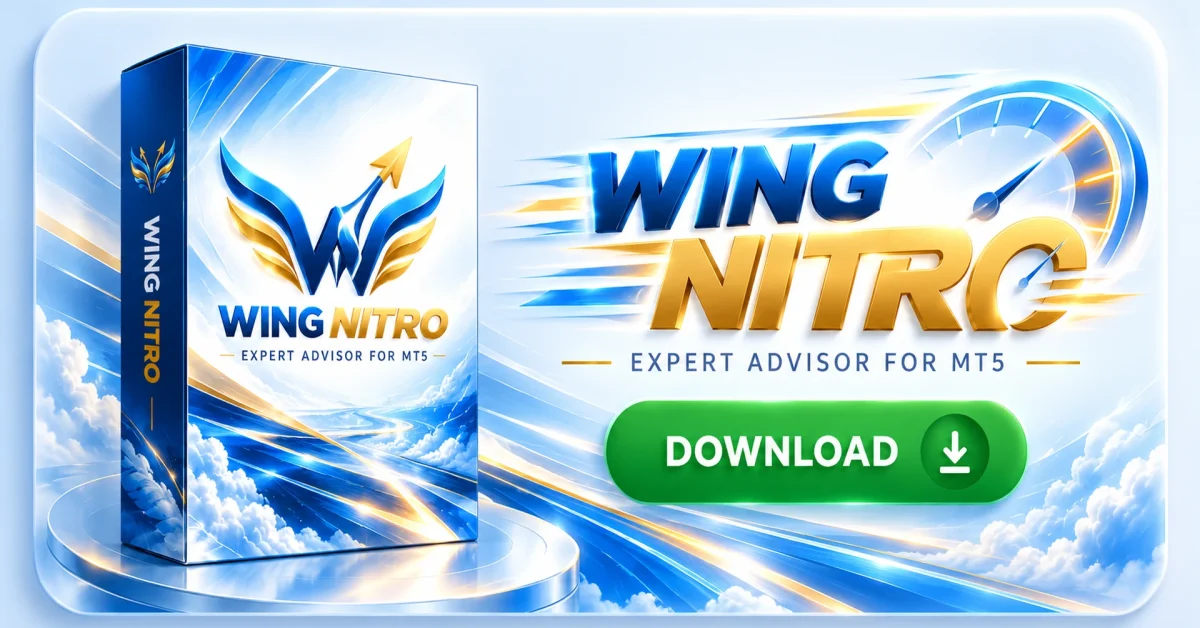
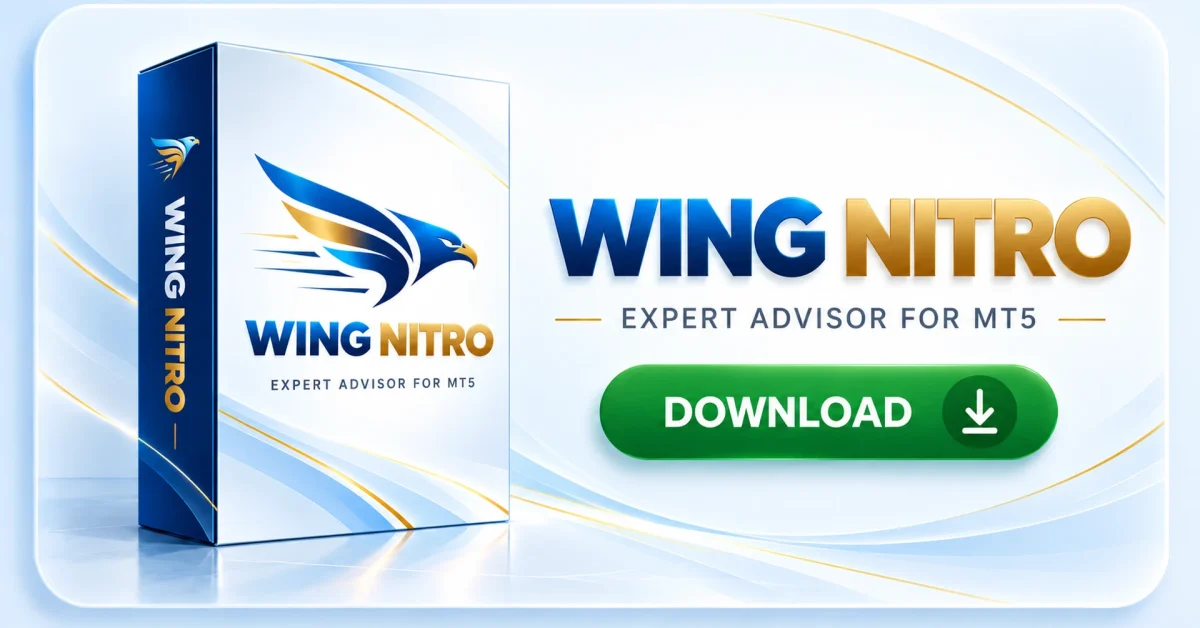
Theme 1.0.63: new product covers, menu highlight fix
- New covers from the owner for EA WING, WING NITRO and WING TWIN:
  2:1 cards for home and /go, 16:9 product page headers, page covers;
  old v1 / v42 card files removed
- Menu links with a # (EA WING 5.0 -> /#modes) are never the current
  page, so the home page no longer highlights "สินค้า" next to "หน้าแรก"

diff --git a/eawing/style.css b/eawing/style.css
@@ -4,7 +4,7 @@ Theme URI: https://eawing.co/
 Author: EA WING Team
 Author URI: https://eawing.co/
 Description: ธีมเว็บไซต์ EA WING ผู้ช่วยเทรดอัตโนมัติสำหรับ MetaTrader 5 · ดีไซน์ Glass Sky (ฟ้า กระจกฝ้า น้ำเงินกับทอง) · มีหน้าคู่มือ ทดสอบ แพ็กเกจ เอกสาร บทความ เครื่องคำนวณ Lot/Drawdown และหน้า EA WING Setup สำหรับตั้งค่าเว็บ · แก้ทุกข้อความได้ใน Customizer
-Version: 1.0.62
+Version: 1.0.63
 Requires at least: 6.0
 Tested up to: 6.8
 Requires PHP: 7.4

diff --git a/eawing/inc/modules/nitro.php b/eawing/inc/modules/nitro.php
@@ -33,7 +33,7 @@ function eaw_nitro_defaults( $d ) {
 
 			/* ---------- หน้า /wing-nitro/ ---------- */
 			'nitro_sub'          => 'EA เทรดทองคำ XAUUSD อัตโนมัติบน MT5 มีชุดเดียวคือ NITRO (บินสูง · เน้นทำกำไร) ฝังในตัว ไม่ต้องเลือกโหมดหรือโหลดไฟล์ .set เปิดไม้เป็นตะกร้า ราคาสวนทางเติมไม้แก้และทบขนาดไม้ (ระบบมาร์ติงเกล) ไม่มีจุดตัดขาดทุน ขนาดไม้ตั้งด้วยระบบคูณ x1 ถึง x60 อ่านความเสี่ยงให้ครบก่อนใช้เงินจริง',
-			'nitro_hero_img'     => 'assets/img/products/wing-nitro-card-v1.webp',
+			'nitro_hero_img'     => 'assets/img/products/wing-nitro-card-v2.webp',
 			'nitro_dl_url'       => 'assets/downloads/WING_NITRO_V4.2.zip',
 			'nitro_dl_label'     => 'ดาวน์โหลด WING NITRO V4.2',
 			'nitro_stat1_label'  => 'ชุดค่าในตัว',
@@ -58,7 +58,7 @@ function eaw_nitro_defaults( $d ) {
 			'nitro_cta_text'     => 'บัญชีที่ใช้ EA WING 5.0 อยู่แล้วใช้ WING NITRO ได้ทันที ถ้ายังไม่มีสิทธิ์ ส่งเลขบัญชี MT5 กับชื่อเซิร์ฟเวอร์ให้ทีมงานทาง LINE แล้วถามเรื่องเงินในบัญชีที่เหมาะกับคุณได้เลย',
 
 			/* ---------- การ์ดดาวน์โหลดในหน้า /go ---------- */
-			'go_nitro_img'        => 'assets/img/products/wing-nitro-go-card-v1.webp',
+			'go_nitro_img'        => 'assets/img/products/wing-nitro-go-card-v2.webp',
 			'go_nitro_url'        => 'assets/downloads/WING_NITRO_V4.2.zip',
 			'go_nitro_alt'        => 'ดาวน์โหลด WING NITRO Expert Advisor สำหรับ MT5',
 			'go_nitro_label'      => 'ดาวน์โหลด WING NITRO V4.2',
@@ -71,7 +71,7 @@ function eaw_nitro_defaults( $d ) {
 			'home_nitro_heading' => 'ชุดเดียว บินสูง เน้นทำกำไร',
 			'home_nitro_text'    => 'เปิดไม้เป็นตะกร้า ราคาสวนทางเติมไม้แก้เป็นขั้นบันไดและทบขนาดไม้ แล้วปิดทั้งตะกร้าเมื่อกำไรรวมถึงเป้า ขนาดไม้ตั้งด้วยระบบคูณ x1 ถึง x60',
 			'home_nitro_points'  => "ชุด NITRO ฝังในตัว ไม่ต้องเลือกโหมดหรือโหลดไฟล์ .set\nเงินในบัญชี 15,000 ต่อ x1 · บัญชีเซนต์เริ่ม 15,000 เซนต์ · บัญชี USD ต้องมี 100,000 USD ขึ้นไป\nระบบมาร์ติงเกล ไม่มีจุดตัดขาดทุน",
-			'home_nitro_img'     => 'assets/img/products/wing-nitro-go-card-v1.webp',
+			'home_nitro_img'     => 'assets/img/products/wing-nitro-go-card-v2.webp',
 			'home_nitro_img_alt' => 'การ์ดสินค้า WING NITRO Expert Advisor สำหรับ MT5',
 			'home_nitro_btn'     => 'ดูรายละเอียด WING NITRO',
 			'home_nitro_url'     => '/wing-nitro/',

diff --git a/eawing/inc/modules/twin.php b/eawing/inc/modules/twin.php
@@ -28,7 +28,7 @@ function eaw_twin_defaults( $d ) {
 
 			/* ---------- หน้า /wing-twin/ ---------- */
 			'twin_sub'          => 'EA เทรดทองคำ XAUUSD อัตโนมัติบน MT5 อีกหนึ่ง EA ของ EA WING ทำงานด้วยเครื่องยนต์ DUAL GRID (กริดสองทาง) มีชุดค่าในตัว 4 ชุด เลือกขนาดได้ 1 ถึง 20 เท่า และตั้งเวลาเปิดรอบใหม่บนแดชบอร์ดได้ ไม่มีการตัดขาดทุน อ่านความเสี่ยงให้ครบก่อนใช้เงินจริง',
-			'twin_hero_img'     => 'assets/img/products/wing-twin-card-v1.webp',
+			'twin_hero_img'     => 'assets/img/products/wing-twin-card-v2.webp',
 			'twin_dl_url'       => 'assets/downloads/WING_TWIN_V6.1.zip',
 			'twin_dl_label'     => 'ดาวน์โหลด WING TWIN V6.1',
 			'twin_stat1_label'  => 'เครื่องยนต์',
@@ -53,7 +53,7 @@ function eaw_twin_defaults( $d ) {
 			'twin_cta_text'     => 'ใช้แพ็กเกจและราคาเดียวกับ EA WING 5.0 ทักทีมงานทาง LINE ถามว่าชุดไหนเข้ากับบัญชีของคุณ และขอเปิดสิทธิ์ใช้งาน ส่งเลขบัญชี MT5 กับชื่อเซิร์ฟเวอร์มาได้เลย',
 
 			/* ---------- การ์ดดาวน์โหลดในหน้า /go ---------- */
-			'go_twin_img'       => 'assets/img/products/wing-twin-go-card-v1.webp',
+			'go_twin_img'       => 'assets/img/products/wing-twin-go-card-v2.webp',
 			'go_twin_url'       => 'assets/downloads/WING_TWIN_V6.1.zip',
 			'go_twin_alt'       => 'ดาวน์โหลด EA WING TWIN Expert Advisor สำหรับ MT5',
 			'go_twin_label'     => 'ดาวน์โหลด WING TWIN V6.1',
@@ -66,7 +66,7 @@ function eaw_twin_defaults( $d ) {
 			'home_twin_heading' => 'กริดสองทาง 4 ชุดในตัว',
 			'home_twin_text'    => 'ราคาวิ่งครบระยะกริดเมื่อไหร่ EA เปิดออเดอร์ตามทางที่ราคาวิ่ง ถ้าราคากลับทิศจะเปิดออเดอร์ฝั่งตรงข้ามที่ใหญ่กว่า แล้วปิดทุกออเดอร์พร้อมกันเมื่อกำไรลอยรวมถึงเป้า ใช้บัญชี Hedging บนกราฟ XAUUSD.s',
 			'home_twin_points'  => "4 ชุดในตัว: WING LIFE1 · WING LIFE2 · FULL TURBO1 · FULL TURBO2\nทุนขั้นต่ำ 10,000 USD (ชุดที่ 1 ถึง 2) และ 20,000 USD (ชุดที่ 3 ถึง 4) ต่อขนาด N = 1\nไม่มีการตัดขาดทุน ออเดอร์อาจค้างรอราคากลับได้หลายสัปดาห์",
-			'home_twin_img'     => 'assets/img/products/wing-twin-go-card-v1.webp',
+			'home_twin_img'     => 'assets/img/products/wing-twin-go-card-v2.webp',
 			'home_twin_img_alt' => 'การ์ดสินค้า EA WING TWIN Expert Advisor สำหรับ MT5',
 			'home_twin_btn'     => 'ดูรายละเอียด WING TWIN',
 			'home_twin_url'     => '/wing-twin/',

diff --git a/eawing/inc/modules/chrome.php b/eawing/inc/modules/chrome.php
@@ -525,6 +525,56 @@ function eaw_chrome_fallback_menu() {
 }
 
 /**
+ * ลิงก์ไปส่วนหนึ่งในหน้า (มี # เช่น EA WING 5.0 → /#modes) ไม่นับเป็นหน้าปัจจุบัน
+ * WordPress ตัด # ทิ้งก่อนเทียบ URL ลิงก์นี้จึงถูกไฮไลต์ทุกครั้งที่อยู่หน้าแรก และลากหัวเมนู "สินค้า" ให้ไฮไลต์ตามไปด้วย
+ * เอาสถานะปัจจุบันออกจากลิงก์แบบนี้ แล้วเอาสถานะหัวเมนูออกจากหัวเมนูที่ไม่มีลูกเป็นหน้าปัจจุบันจริงเหลืออยู่
+ */
+function eaw_chrome_menu_hash_items( $items ) {
+	$parent  = array();
+	$hashed  = array();
+	foreach ( $items as $item ) {
+		$parent[ (int) $item->db_id ] = (int) $item->menu_item_parent;
+		if ( ! empty( $item->current ) && false !== strpos( (string) $item->url, '#' ) ) {
+			$item->current = false;
+			$item->classes = array_values( array_diff( (array) $item->classes, array( 'current-menu-item', 'current_page_item' ) ) );
+			$hashed[]      = (int) $item->db_id;
+		}
+	}
+	if ( ! $hashed ) {
+		return $items;
+	}
+	$ancestors = function ( $id ) use ( $parent ) {
+		$out = array();
+		$p   = isset( $parent[ $id ] ) ? $parent[ $id ] : 0;
+		while ( $p && ! isset( $out[ $p ] ) ) {
+			$out[ $p ] = true;
+			$p         = isset( $parent[ $p ] ) ? $parent[ $p ] : 0;
+		}
+		return $out;
+	};
+	$keep = array();
+	foreach ( $items as $item ) {
+		if ( ! empty( $item->current ) ) {
+			$keep += $ancestors( (int) $item->db_id );
+		}
+	}
+	$drop = array();
+	foreach ( $hashed as $id ) {
+		$drop += $ancestors( $id );
+	}
+	foreach ( $items as $item ) {
+		$id = (int) $item->db_id;
+		if ( isset( $drop[ $id ] ) && ! isset( $keep[ $id ] ) ) {
+			$item->current_item_ancestor = false;
+			$item->current_item_parent   = false;
+			$item->classes               = array_values( array_diff( (array) $item->classes, array( 'current-menu-ancestor', 'current-menu-parent', 'current_page_parent', 'current_page_ancestor' ) ) );
+		}
+	}
+	return $items;
+}
+add_filter( 'wp_nav_menu_objects', 'eaw_chrome_menu_hash_items', 20 );
+
+/**
  * ต่อท้าย "ติดต่อ" (/go/) ในเมนูหลักที่สร้างเองใน WP
  * เฉพาะเมื่อหน้า go เผยแพร่แล้ว และเมนูยังไม่มีลิงก์ /go/ รายการชื่อเดียวกัน หรือลิงก์ LINE
  */

diff --git a/eawing/inc/modules/products.php b/eawing/inc/modules/products.php
@@ -189,7 +189,7 @@ function eaw_products_defaults( $d ) {
 			'home_eawing_heading' => 'สามโหมด Lite Advance Full',
 			'home_eawing_text'    => 'เปิดออเดอร์เป็นชุด ราคาสวนทางเติมไม้แก้ที่ใหญ่ขึ้นเป็นขั้นบันไดสูงสุด 9 ขั้น แล้วปิดทั้งชุดเมื่อถึงเป้ากำไร เลือกระดับความเสี่ยงได้สามโหมดจากแดชบอร์ด',
 			'home_eawing_points'  => "เงินในบัญชีที่แนะนำ 1 / 2 / 3 เท่าของทุนคิดไม้ ตามโหมด Lite Advance Full\nทุนแนะนำ: บัญชีเซนต์ราว 1,000 USD ขึ้นไป · บัญชีมาตรฐานราว 100,000 USD ขึ้นไป\nโหมดสำเร็จรูปไม่มีการตัดขาดทุนอัตโนมัติ",
-			'home_eawing_img'     => 'assets/img/eawing-download-card-v42.webp',
+			'home_eawing_img'     => 'assets/img/products/ea-wing-go-card-v2.webp',
 			'home_eawing_img_alt' => 'การ์ดสินค้า EA WING Expert Advisor สำหรับ MT5',
 			'home_eawing_btn'     => 'ดูสามโหมดของ EA WING',
 			'home_eawing_url'     => '#modes',

diff --git a/eawing/inc/modules/go.php b/eawing/inc/modules/go.php
@@ -95,7 +95,7 @@ function eaw_go_defaults( $d ) {
 			'go_step4_note'          => '',
 			'go_step4_badge'         => '',
 			'go_download_line_label' => eaw_go_legacy( 'go_step4', 'ขอรับไฟล์ EA ทาง LINE' ),
-			'go_fast_img'            => 'assets/img/eawing-download-card-v42.webp',
+			'go_fast_img'            => 'assets/img/products/ea-wing-go-card-v2.webp',
 			'go_fast_url'            => 'assets/downloads/EA_WING_V5.0.zip',
 			'go_fast_alt'            => 'ดาวน์โหลด EA WING Expert Advisor สำหรับ MT5',
 			'go_fast_label'          => 'ดาวน์โหลด EA WING V5.0',

diff --git a/eawing/functions.php b/eawing/functions.php
@@ -9,7 +9,7 @@ if ( ! defined( 'ABSPATH' ) ) {
 	exit;
 }
 
-define( 'EAW_VERSION', '1.0.62' );
+define( 'EAW_VERSION', '1.0.63' );
 
 /* --------------------------------------------------------------
  * Theme setup

diff --git a/CLAUDE.md b/CLAUDE.md
@@ -56,7 +56,7 @@
 - `functions.php` bootstrap + `eaw_defaults()` + helper (`eaw_mod`, `eaw_lines`, `eaw_logo_url`, `eaw_wordmark_url` …) แล้ว require `inc/*.php` และ glob `inc/modules/*.php`
 - โมดูล: `chrome` (header/footer/dock/CTA) · `home` · `homeplus` (ส่วนเสริมหน้าแรก: story, แท็บ Lite/Advance/Full, การ์ดล็อกอินจำลอง, ตารางเปรียบเทียบ, เช็กลิสต์พร้อมเริ่ม, บทความล่าสุด, FAQ ข้อ 11 ถึง 14) · `pages` · `guides` · `go` · `consent` (PDPA) · `infra` (REST, hardening, ฟอนต์, กันบทความตั้งเวลาพลาด) · `clusters` (เสาหลักของแต่ละหมวด `eaw_cluster_pillars()`, กล่อง "บทความในชุดนี้" ท้ายบทความ, เสาหลักขึ้นก่อนในหน้าหมวด)
 - โมดูล `products` (21 ต.ค. 2026): `eaw_products()` ลำดับตามเลขรุ่น · `eaw_products_page( $prefix )` โครงหน้าสินค้าที่ template-nitro.php / template-twin.php เรียก · `eaw_homeplus_products()` (หมวด 37 · การ์ด EA WING `home_eawing_*`) · `eaw_go_product_downloads()` · `[eawing_ea product="nitro|twin" field="name|version|bt_range"]`
-- โมดูล `nitro` (21 ต.ค. 2026): Customizer หมวด 35 (`nitro_*` หน้าสินค้า + `nitro_version` `nitro_bt_from|to`, `go_nitro_*`, `home_nitro_*`) · เพจ `/wing-nitro/` (`inc/content/pages/wing-nitro.html`) · ภาพ `[eawing_figure name="nitro-report|nitro-dashboard"]` (results/eawing-nitro-report-v1.webp = ส่วน Results ตั้งแต่บรรทัด Company + กราฟ Balance ของรายงานฉบับเต็มเดียวกัน · install/eawing-nitro-dashboard-v1.webp = แดชบอร์ดฝั่งซ้ายจากคู่มือหน้า 4) · ภาพสินค้า products/wing-nitro-*.webp จากการ์ดที่เจ้าของส่งในแชต · zip assets/downloads/WING_NITRO_V4.2.zip
+- โมดูล `nitro` (21 ต.ค. 2026): Customizer หมวด 35 (`nitro_*` หน้าสินค้า + `nitro_version` `nitro_bt_from|to`, `go_nitro_*`, `home_nitro_*`) · เพจ `/wing-nitro/` (`inc/content/pages/wing-nitro.html`) · ภาพ `[eawing_figure name="nitro-report|nitro-dashboard"]` (results/eawing-nitro-report-v1.webp = ส่วน Results ตั้งแต่บรรทัด Company + กราฟ Balance ของรายงานฉบับเต็มเดียวกัน · install/eawing-nitro-dashboard-v1.webp = แดชบอร์ดฝั่งซ้ายจากคู่มือหน้า 4) · ภาพสินค้า products/wing-nitro-*-v2.webp จากการ์ดที่เจ้าของส่งในแชต · zip assets/downloads/WING_NITRO_V4.2.zip
 - โมดูล `twin` (19 ต.ค. 2026): สินค้า WING TWIN · Customizer หมวด 36 (`twin_*` หน้าสินค้า, `go_twin_*` การ์ดดาวน์โหลดใน /go, `home_twin_*` การ์ดในส่วนสินค้าหน้าแรก) · เพจ `/wing-twin/` (template-twin.php + `inc/content/pages/wing-twin.html`) · ชื่อไฟล์ `[eawing_ea product="twin"]` (setting `twin_version`) · ภาพรายงาน `[eawing_figure name="twin-set1..4"]` (assets/img/results/eawing-twin-setN-v1.webp ครอปจากหน้า 2 ของรายงาน MT5 ไม่ตัดต่อ) · ภาพสินค้า assets/img/products/ · zip assets/downloads/WING_TWIN_V6.1.zip (ลิงก์ zip รุ่นเก่า 301 ไป /go/ เหมือน EA WING) · เปลี่ยนรุ่นครั้งหน้า: แก้ `twin_version` `twin_dl_url|label` `go_twin_url|label|version` + zip ใหม่ + อ่านเอกสารรุ่นใหม่ให้ครบ
 - `inc/setup.php` manifest เพจ `eaw_site_pages()` + บทความ `eaw_seed_article_covers()` + หน้า admin **ลักษณะ → EA WING Setup**
 - หมวดบทความ 8 หมวด = 8 กลุ่ม (8 ต.ค. 2026 · `eaw_article_categories()` ใน setup.php ที่เดียว): EA และบอทเทรด (`ea-basics`) · ใช้งาน MT5 (`mt5`) · VPS สำหรับ EA (`vps`) · เทรดทองคำ XAUUSD (`gold-trading`) · บริหารความเสี่ยง · วางแผนการเทรด · ติดตามผล · บัญชีและโบรกเกอร์ (`broker-account`) · หน้า /articles/ มีการ์ดหมวด (`articles_pillars_*`) ก่อนรายการคู่มือ
@@ -90,3 +90,4 @@
 - 19 ต.ค. 2026 (ธีม 1.0.60): **การ์ดคุกกี้พูดถึงเฉพาะบริการที่ใส่รหัสไว้จริง** · `cookie_consent_text` มี `{tools}` = `consent_tool_ga_label` / `consent_tool_pixel_label` ต่อด้วย `consent_tools_join` · ไม่มีรหัสใดเลย = `consent_none_text` · หมวดวิเคราะห์/การตลาดพิมพ์เฉพาะเมื่อมีรหัส GA4/Pixel ของหมวดนั้น · ไม่มี Pixel = ไม่มีหมวดการตลาด สัญญาณโฆษณาของ Google denied ตลอด และหมวดวิเคราะห์มีบรรทัด `consent_ads_off_detail` บอกไว้ · บรรทัดสัญญาณโฆษณาของ Google ในหมวดการตลาดแยกเป็น `consent_marketing_google_detail` (แสดงเมื่อมีทั้ง Pixel และ GA4) · ใส่ Pixel วันหน้า: การ์ดเปลี่ยนเองและถามคนที่เคยตอบใหม่ (คุกกี้เก็บ m- ไว้) ไม่ต้องบวก consent_version
 - 19 ต.ค. 2026 (ธีม 1.0.61): **หน้านโยบายความเป็นส่วนตัว rev 7** (ฉบับ eawing-privacy-v3-2026-10-19) เขียนตามจริงว่าเว็บใช้แค่ GA4 · Meta Pixel และสัญญาณโฆษณาของ Google (คุกกี้ _fbp _fbc _gcl_*) เป็นสิ่งที่เกิดเฉพาะเมื่อเปิดใช้วันหน้าและผู้เข้าชมอนุญาตหมวดวัดผลโฆษณา · ถ้าวันหน้าใส่ fb_pixel_id ต้องแก้หน้านี้ให้ตรง (ขึ้น rev และเลขฉบับ) พร้อมกัน
 - 21 ต.ค. 2026 (ธีม 1.0.62): **เพิ่ม WING NITRO 4.2 และเรียงสินค้าตามเลขรุ่น** เพจ /wing-nitro/ · หน้าแรกเปลี่ยนส่วน WING TWIN เป็นส่วนสินค้า 3 การ์ด (ก่อนส่วนโหมด) · /go ขั้น 4 การ์ด 3 ใบ · เมนู "สินค้า" (WING NITRO 4.2 · EA WING 5.0 → /#modes · WING TWIN 6.1) ต่อจากหน้าแรก · หน้า WING TWIN ตารางเทียบ 3 ตัว · pricing how-to-install backtest risk-disclosure พูดถึง NITRO · zip ของ NITRO มีแค่ชุดส่งลูกค้า (ex5 คู่มือ วิธีใช้ มีอะไรใหม่)
+- 21 ต.ค. 2026 (ธีม 1.0.63): **ปกสินค้าชุดใหม่ทั้ง 3 ตัว** จากการ์ดที่เจ้าของส่งในแชต (กล่องสินค้า + ปุ่ม DOWNLOAD พื้นขาวฟ้า) · ไฟล์ `products/{ea-wing|wing-nitro|wing-twin}-go-card-v2.webp` (2:1 · การ์ดหน้าแรกและ /go) `products/wing-{nitro|twin}-card-v2.webp` (16:9 · หัวเพจสินค้า) และ `covers/page-wing-{nitro|twin}.webp` (ต้นทางภาพเด่น · บนเว็บอัปโหลดเป็นสื่อใหม่แล้วตั้งเป็นภาพเด่นของเพจ) · ลบปกเก่า eawing-download-card-v42 และ *-v1 แล้ว · เปลี่ยนปกครั้งหน้าให้ขึ้นเลข v · แก้เมนู: ลิงก์ที่มี # (EA WING 5.0 → /#modes) ไม่นับเป็นหน้าปัจจุบัน (`eaw_chrome_menu_hash_items` ใน chrome.php) เดิม WordPress ตัด # แล้วไฮไลต์ "สินค้า" คู่กับ "หน้าแรก" ที่หน้าแรก
